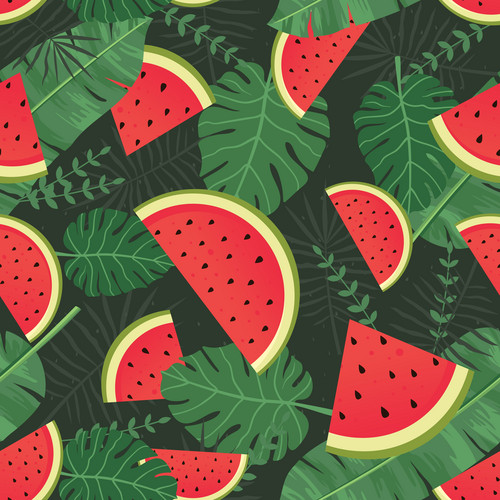
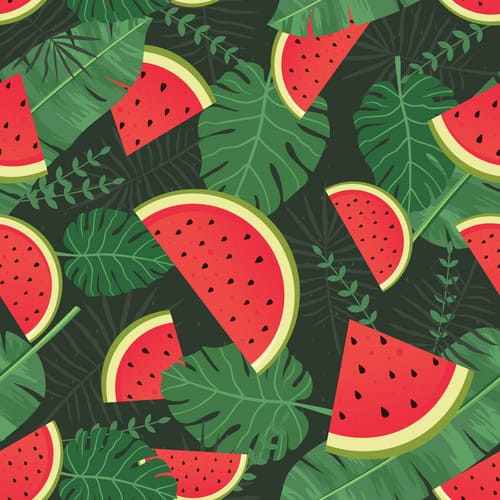
fix missing bracket and compress image assets

diff --git a/index.html b/index.html
@@ -66,7 +66,7 @@ For the purpose of completing the assignment in Belajar Dasar Pemrograman Web at
                         <img src="images/seedless.jpg" alt="Seedless watermelon" width="100%">
                         <figcaption>Seedless watermelon.</figcaption>
                     </figure>
-                    <p>The US Department of Agriculture recommends using at least one beehive per acre (4,000 m2 per hive) for pollination of conventional, seeded varieties for commercial plantings. Seedless hybrids have sterile pollen. This requires planting pollinizer rows of varieties with viable pollen. Since the supply of viable pollen is reduced and pollination is much more critical in producing the seedless variety, the recommended number of hives per acre (pollinator density) increases to three hives per acre (1,300 m2 per hive). Watermelons have a longer growing period than other melons, and can often take 85 days or more from the time of transplanting for the fruit to mature. Lack of pollen is thought to contribute to "hollow heart" which causes the flesh of the watermelon to develop a large hole, sometimes in an intricate, symmetric shape. Watermelons suffering from hollow heart are safe to consume.</p
+                    <p>The US Department of Agriculture recommends using at least one beehive per acre (4,000 m2 per hive) for pollination of conventional, seeded varieties for commercial plantings. Seedless hybrids have sterile pollen. This requires planting pollinizer rows of varieties with viable pollen. Since the supply of viable pollen is reduced and pollination is much more critical in producing the seedless variety, the recommended number of hives per acre (pollinator density) increases to three hives per acre (1,300 m2 per hive). Watermelons have a longer growing period than other melons, and can often take 85 days or more from the time of transplanting for the fruit to mature. Lack of pollen is thought to contribute to "hollow heart" which causes the flesh of the watermelon to develop a large hole, sometimes in an intricate, symmetric shape. Watermelons suffering from hollow heart are safe to consume.</p>
                     <p>Farmers of the Zentsuji region of Japan found a way to grow cubic watermelons by growing the fruits in metal and glass boxes and making them assume the shape of the receptacle. The cubic shape was originally designed to make the melons easier to stack and store, but these "square watermelons" may be triple the price of normal ones, so appeal mainly to wealthy urban consumers. Pyramid-shaped watermelons have also been developed and any polyhedral shape may potentially be used.</p>
                 </article>
             </section>
